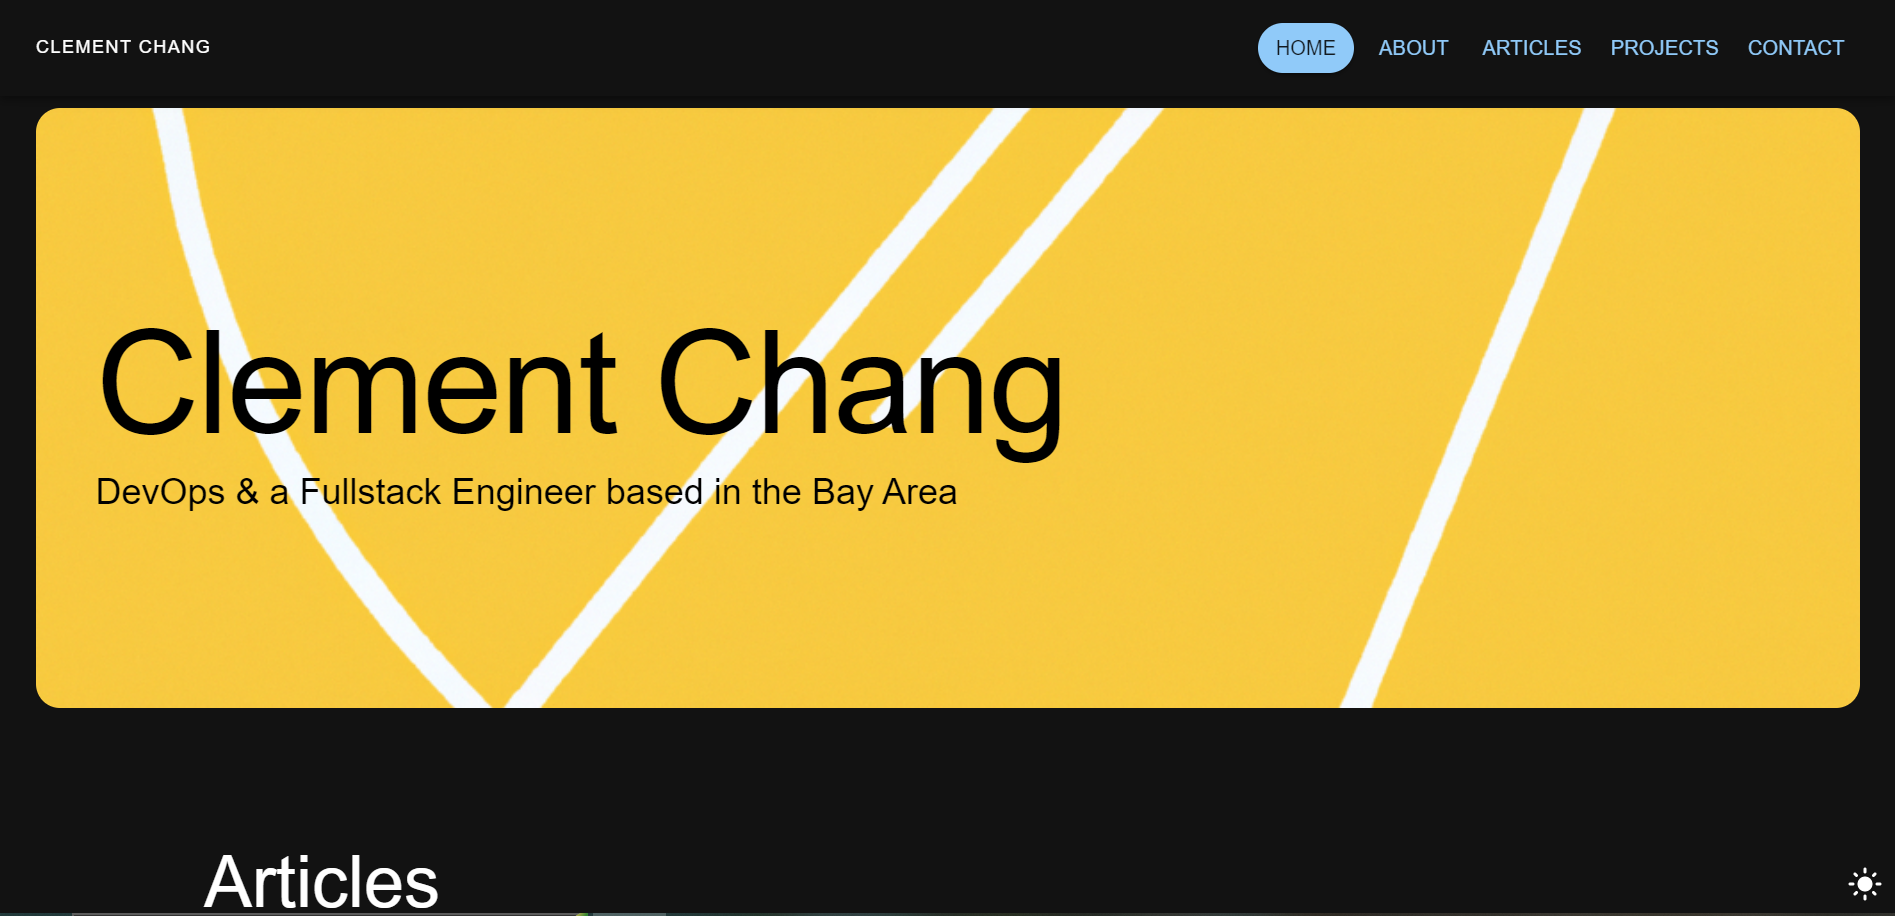
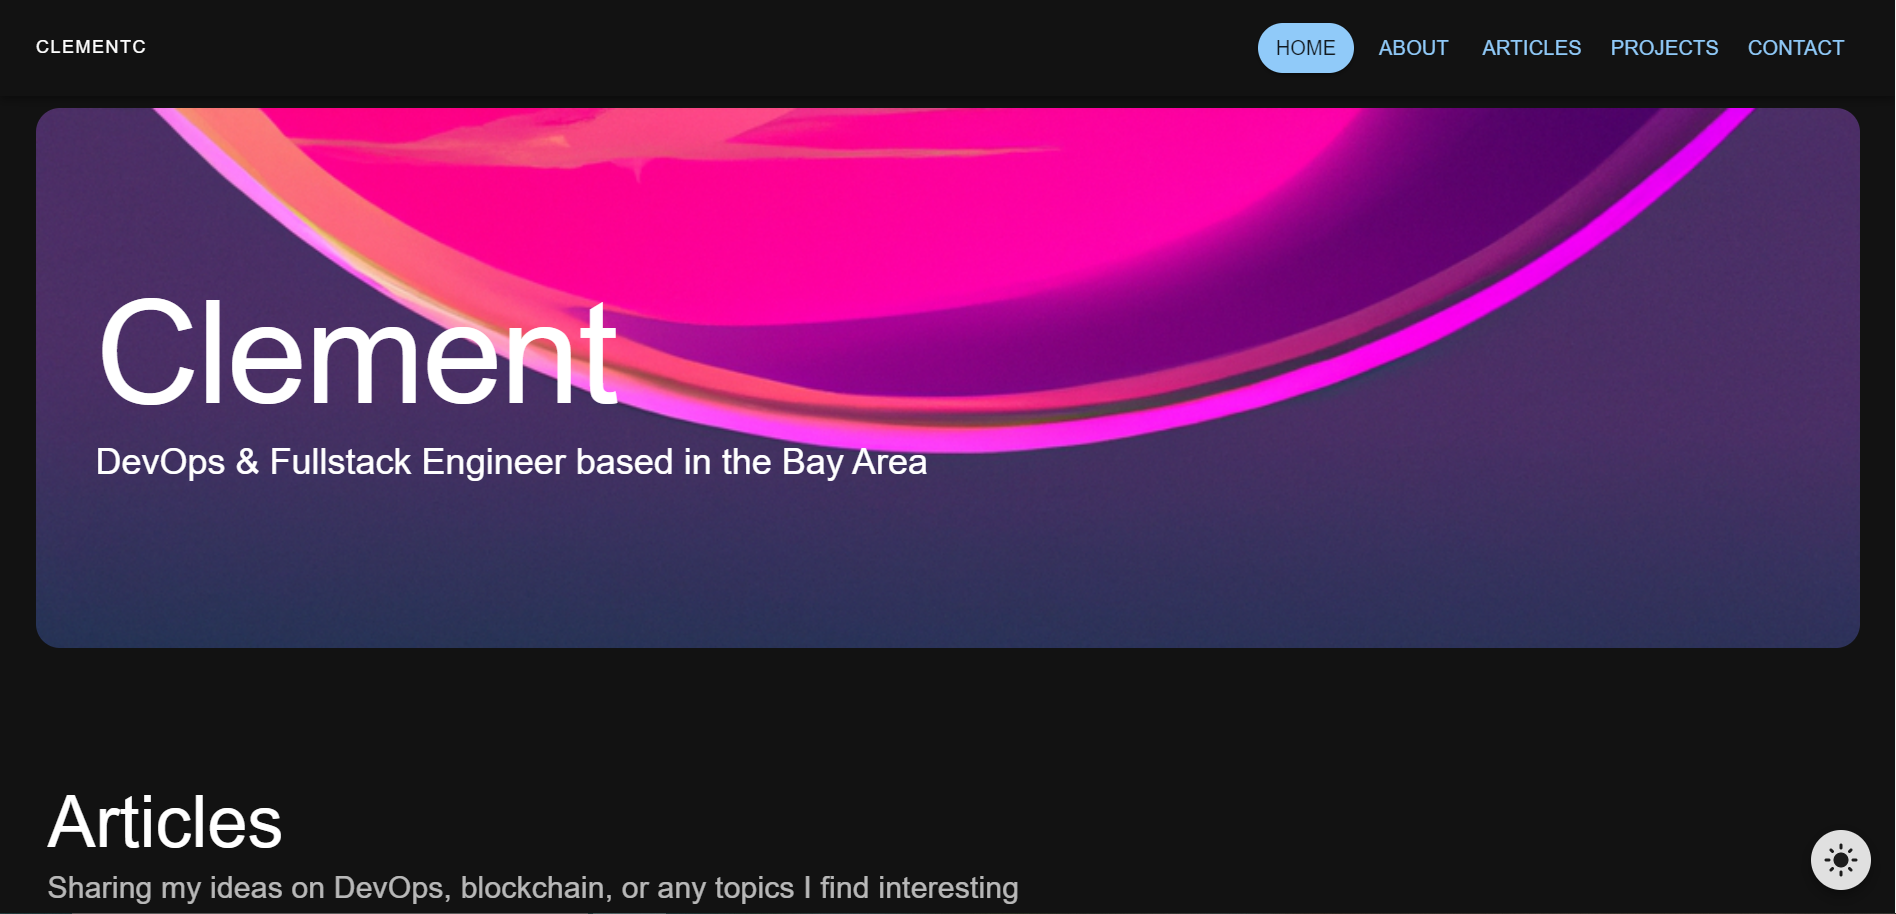
update

diff --git a/src/components/Lightswitch.js b/src/components/Lightswitch.js
@@ -1,18 +1,19 @@
-import { IconButton, useMediaQuery} from "@mui/material";
+import {useMediaQuery, Fab } from "@mui/material";
 import NightlightIcon from '@mui/icons-material/Nightlight';
 import LightModeIcon from '@mui/icons-material/LightMode';
 import { useEffect } from "react";
 
-export default function Lightswitch({darkmode, setDarkMode}) {
+export default function Lightswitch({ darkmode, setDarkMode }) {
     const preferDark = useMediaQuery('(prefers-color-scheme: dark)');
     useEffect(() => {
         setDarkMode(preferDark);
     }, [setDarkMode, preferDark]);
 
     return (
-        <IconButton sx={{position:"fixed", bottom:"0", right:"0"}} 
-        onClick={() => setDarkMode(!darkmode)} disableRipple>
-            {darkmode ?  <LightModeIcon />:<NightlightIcon />}
-        </IconButton>
+        <Fab sx={{ position: "fixed", bottom: "0", right: "0", margin:2}}
+        size="small" onClick={() => setDarkMode(!darkmode)}>
+            {darkmode ? <LightModeIcon /> : <NightlightIcon />}
+        </Fab>
+
     );
 }

diff --git a/src/pages/About.js b/src/pages/About.js
@@ -7,9 +7,9 @@ import TitleCard from "../components/TitleCard"
 export default function About({ mobile }) {
     return (
         <Box sx={{ display: "flex", flexDirection: "column", alignItems: "center", width: "100%"}}>
-            <TitleCard image={'sand.png'} mobile={mobile}>
-                <Typography sx={{ color: "black" }} variant={(mobile)?"h2":"h1"} >About</Typography>
-                <Typography variant="h5" color={"black"}>The paths that I had taken and who I am now</Typography>
+            <TitleCard image={'plant.jpg'} mobile={mobile}>
+                <Typography sx={{ color: "white" }} variant={(mobile)?"h2":"h1"} >About</Typography>
+                <Typography variant="h5" color={"white"}>The paths that I had taken and who I am now</Typography>
             </TitleCard>
 
             <Box sx={{ display: "flex", alignItems: "center", width:"95vw" }} flexDirection={(mobile) ? "column" : "row"}>

diff --git a/src/pages/Home.js b/src/pages/Home.js
@@ -38,9 +38,9 @@ export default function Home({ mobile }) {
 
     return (
         <Box sx={{ display: "flex", flexDirection: "column", alignItems: "center", width: "100%" }}>
-            <TitleCard image={'yellow.png'} mobile={mobile}>
-                <Typography variant={(mobile) ? "h2" : "h1"} color={"black"}>Clement</Typography>
-                <Typography variant="h5" color={"black"}>DevOps & a Fullstack Engineer based in the Bay Area</Typography>
+            <TitleCard image={'rocket.png'} mobile={mobile}>
+                <Typography variant={(mobile) ? "h2" : "h1"} color={"white"}>Clement</Typography>
+                <Typography variant="h5" color={"white"}>DevOps & Fullstack Engineer based in the Bay Area</Typography>
             </TitleCard>
 
             <Box sx={{

diff --git a/src/pages/Articles.js b/src/pages/Articles.js
@@ -14,7 +14,7 @@ export default function Articles({ mobile }) {
             display: "flex", flexDirection: "column", alignItems: "center",
             width: "100%", minHeight:"140vh"
         }}>
-            <TitleCard image={'dark.png'} mobile={mobile}>
+            <TitleCard image={'block.jpg'} mobile={mobile}>
                 <Typography variant={(mobile) ? "h2" : "h1"} color={"white"}>Articles</Typography>
             </TitleCard>
             <InstantSearch searchClient={searchClient} indexName="article">

diff --git a/src/components/SkillLeft.js b/src/components/SkillLeft.js
@@ -31,7 +31,7 @@ export default function SkillLeft({ data, title }) {
 
 
     return (
-        <Box sx={{ maxWidth: 500, display: "flex", flexDirection: "column", padding:2}}>
+        <Box sx={{ display: "flex", flexDirection: "column", padding:2, flexGrow:1}}>
             <Typography variant="h6">{title}</Typography>
             <Typography variant="h5">...speak these languages</Typography>
             <Box sx={{ display: "flex", flexDirection: "row", gap: 1, flexWrap: "wrap", padding: 2 }}>

diff --git a/src/components/Skillmodule.js b/src/components/Skillmodule.js
@@ -45,7 +45,7 @@ export default function Skillmodule() {
                     </Button>
                 )}
             </ButtonGroup>
-            <Box sx={{ width: "100%", display: "flex", flexWrap: "wrap", flexDirection: "row", margin: 1 }}>
+            <Box sx={{ width: "95vw", display: "flex", flexWrap: "wrap", flexDirection: "row", marginTop:2 }}>
                 <SkillLeft data={data} title={selected}/>
                 <SkillRight data={data} ref={skillRef} />
             </Box>

diff --git a/src/pages/Projects.js b/src/pages/Projects.js
@@ -31,7 +31,7 @@ export default function Projects({ mobile }) {
 
     return (
         <Box sx={{ display: "flex", flexDirection: "column", alignItems: "center", width: "100%" }}>
-            <TitleCard image={'rocket.png'}>
+            <TitleCard image={'cross.jpg'}>
                 <Typography variant={(mobile) ? "h2" : "h1"} color={"white"}>Projects</Typography>
             </TitleCard>
             {

diff --git a/src/components/SkillRight.js b/src/components/SkillRight.js
@@ -16,7 +16,7 @@ export default function SkillRight({ data }) {
     return (
         <Card sx={{
             minHeight: 200, alignItems: "center", justifyContent: "center",
-            display: "flex", flexDirection: "column", padding: 3, width:500,
+            display: "flex", flexDirection: "column", padding: 3, maxWidth:500,
             borderRadius:4
         }}>
             <CardContent>
